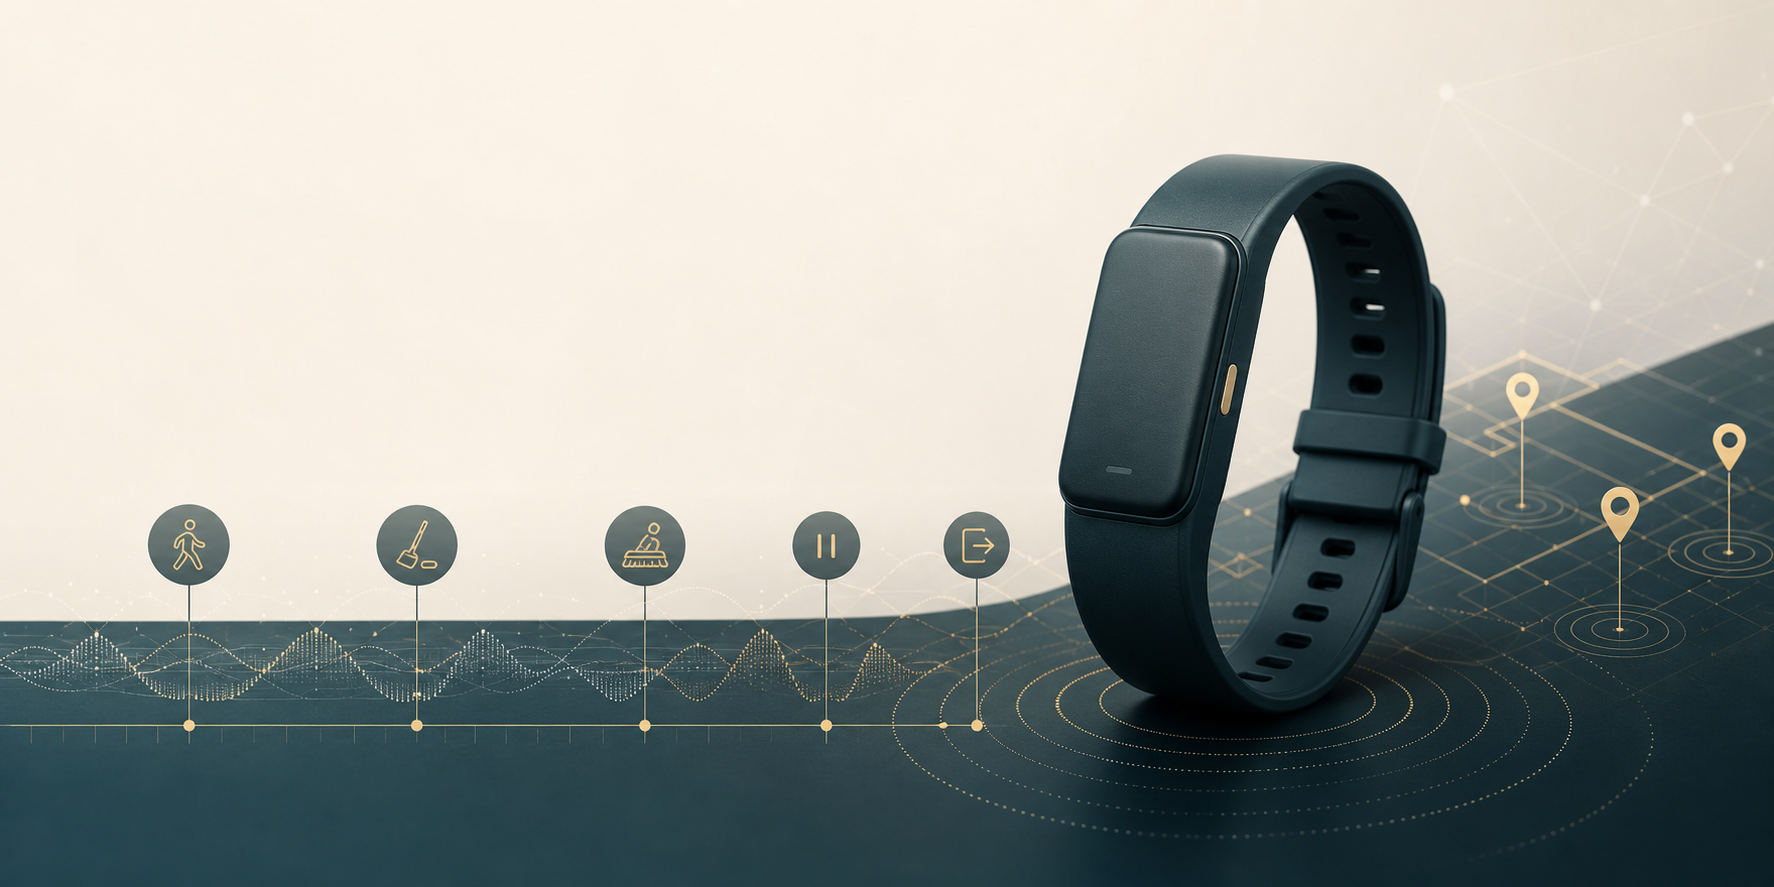
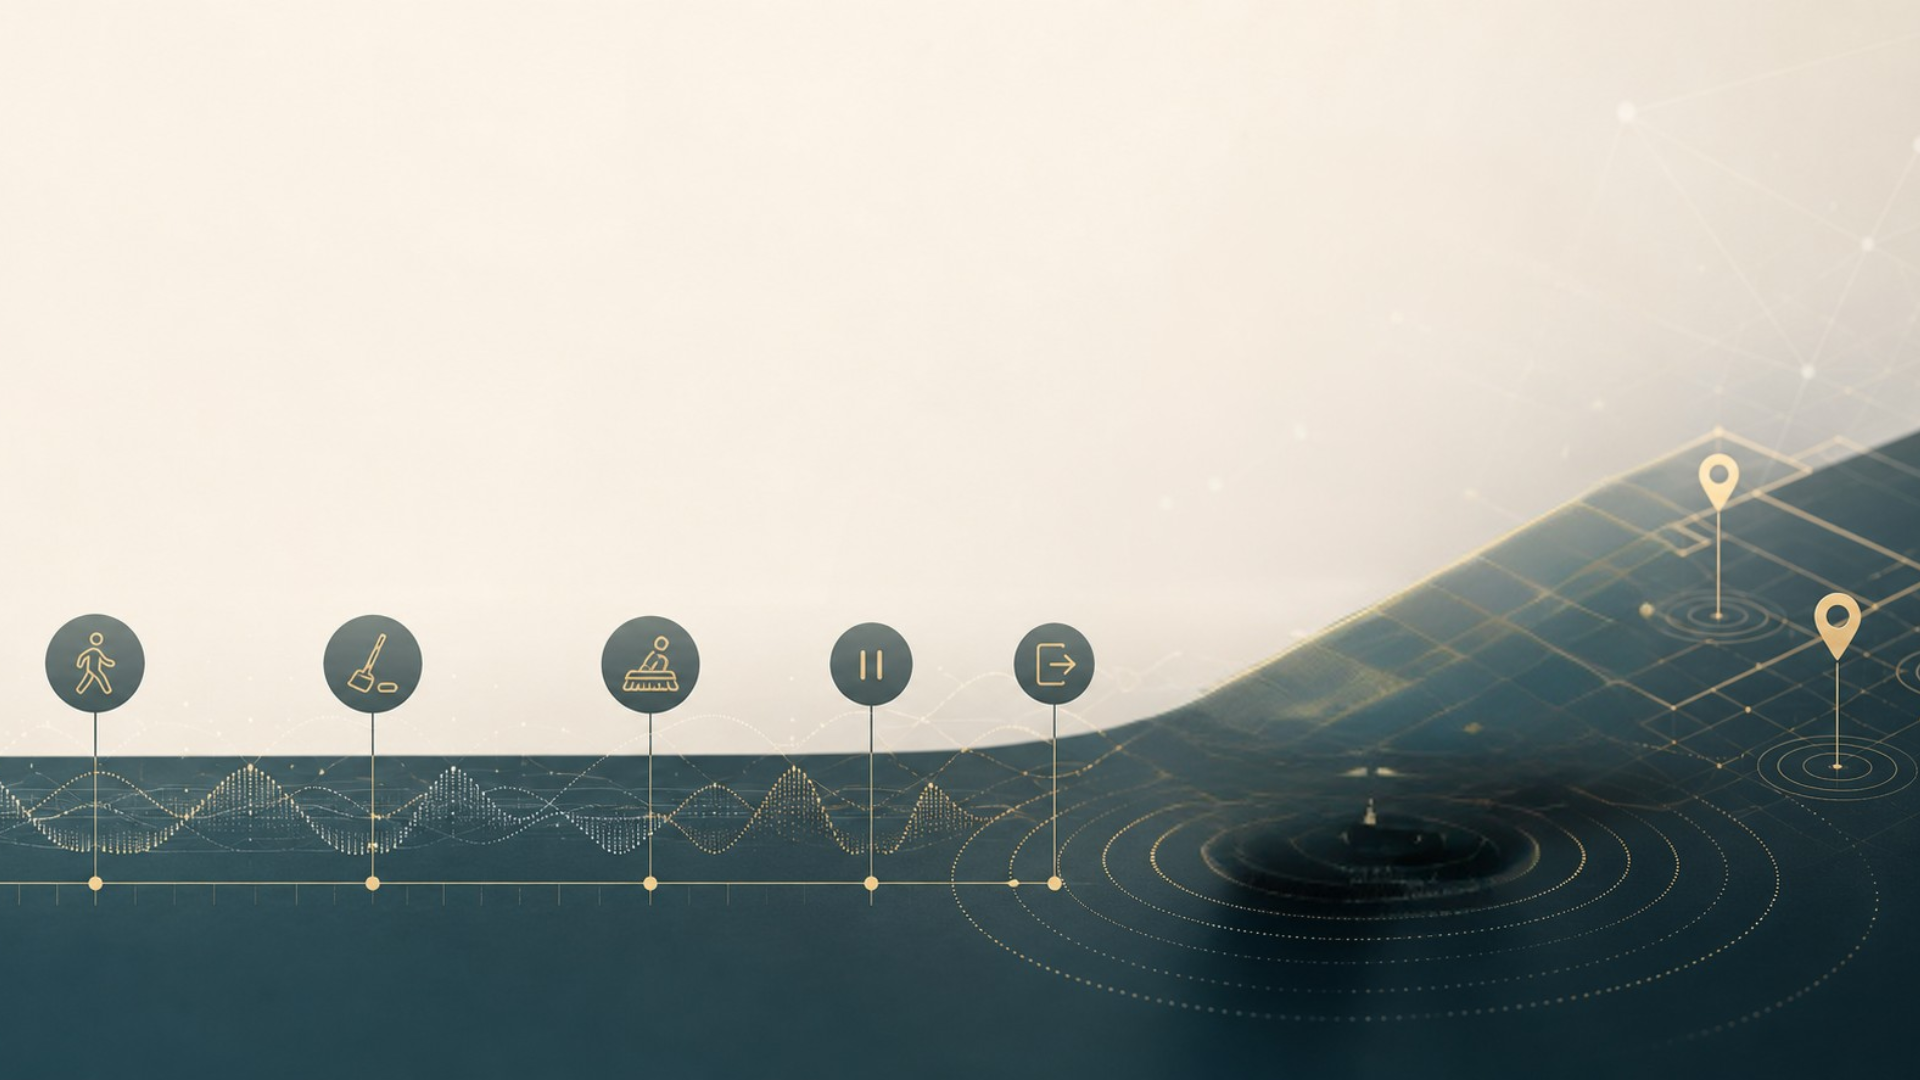
Remove hero device overlay

Changed region(s): [[0.0, 0.1522, 1.0, 0.8828], [0.0, 0.5479, 0.279, 0.6697], [0.31, 0.5479, 0.403, 0.6697]]

diff --git a/styles.css b/styles.css
@@ -138,18 +138,6 @@ img {
     url("assets/charm-hero-sensor-band.png") center center / cover no-repeat;
 }
 
-.hero-product {
-  position: absolute;
-  z-index: 1;
-  right: clamp(-200px, -10vw, -110px);
-  bottom: clamp(26px, 7vh, 76px);
-  width: min(42vw, 680px);
-  max-height: 58svh;
-  object-fit: contain;
-  filter: drop-shadow(0 36px 44px rgba(0, 0, 0, 0.38));
-  pointer-events: none;
-}
-
 .hero-scrim {
   position: absolute;
   inset: 0;
@@ -747,14 +735,6 @@ section[id] {
 
   .hero-content {
     padding-top: 118px;
-  }
-
-  .hero-product {
-    right: -160px;
-    bottom: 12vh;
-    width: min(116vw, 520px);
-    max-height: 42svh;
-    opacity: 0.5;
   }
 
   .hero-scrim {

diff --git a/index.html b/index.html
@@ -17,10 +17,9 @@
     />
     <meta property="og:type" content="website" />
     <meta property="og:url" content="https://charm.band/" />
-    <meta property="og:image" content="https://charm.band/assets/charm-band-device.png" />
-    <link rel="preload" as="image" href="assets/charm-hero-sensor-band.png" />
-    <link rel="preload" as="image" href="assets/charm-band-device.png" />
-    <link rel="stylesheet" href="styles.css?v=old-hero-bg-1" />
+    <meta property="og:image" content="https://charm.band/assets/charm-hero-sensor-band.png" />
+    <link rel="preload" as="image" href="assets/charm-hero-sensor-band.png?v=clean-old-bg-1" />
+    <link rel="stylesheet" href="styles.css?v=no-hero-device-1" />
   </head>
   <body>
     <header class="site-header" data-site-header>
@@ -39,11 +38,6 @@
     <main id="top">
       <section class="hero" aria-labelledby="hero-title">
         <div class="hero-background" aria-hidden="true"></div>
-        <img
-          class="hero-product"
-          src="assets/charm-band-device.png"
-          alt="A CHARM™ Band wrist module"
-        />
         <div class="hero-scrim" aria-hidden="true"></div>
         <div class="hero-content reveal">
           <p class="eyebrow">Continuous Human Activity Recognition Module</p>